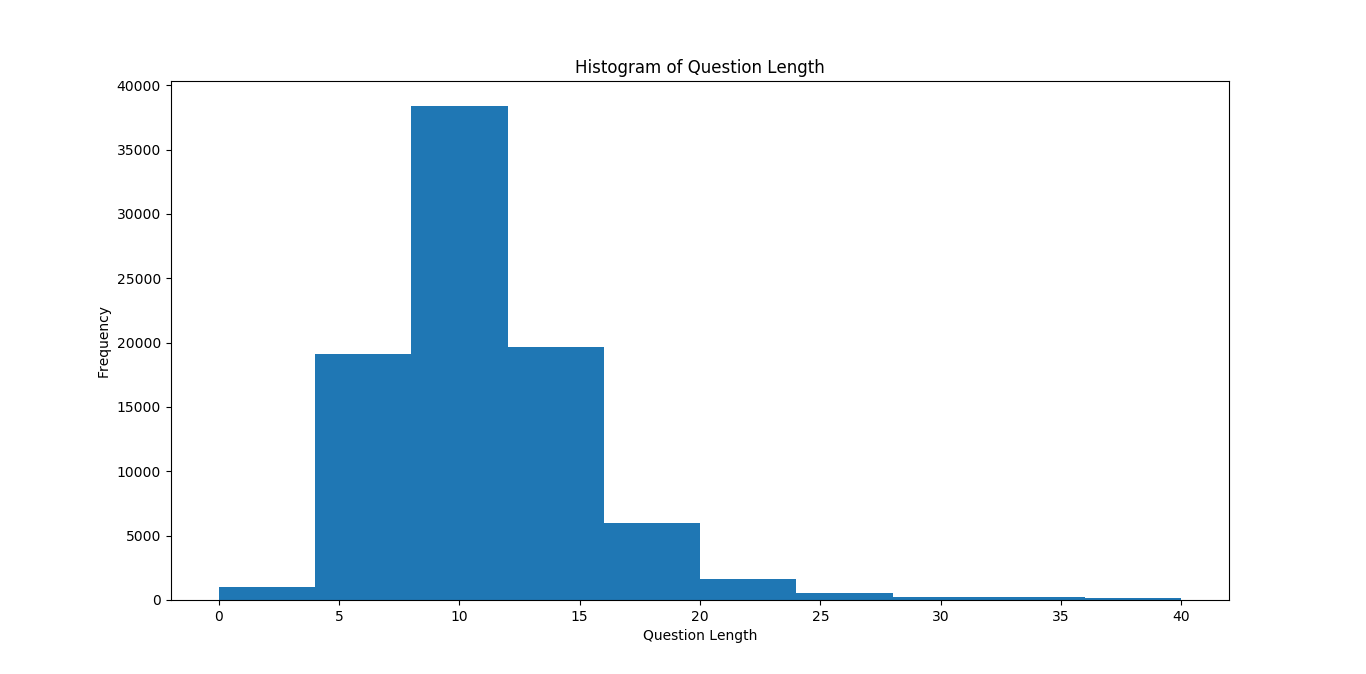
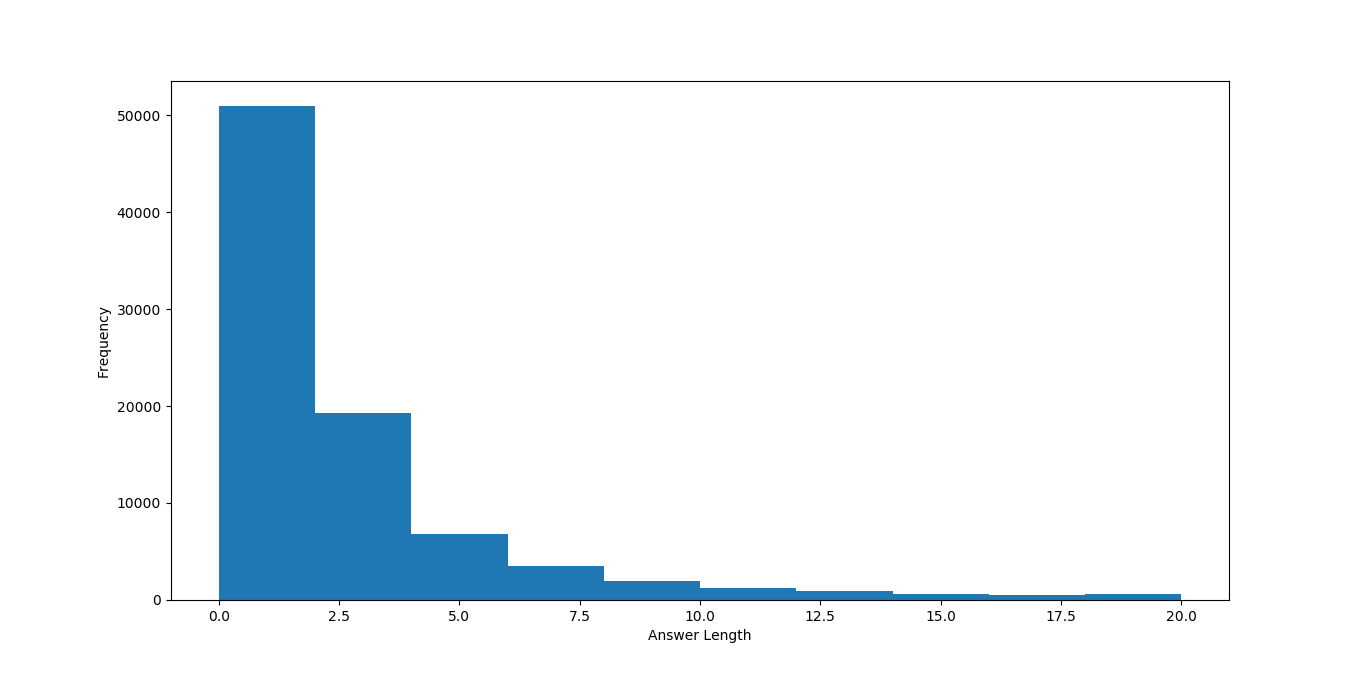
final changes SQuAD Analysis

diff --git a/src/SQuAD_analysis.py b/src/SQuAD_analysis.py
@@ -1,0 +1,66 @@
+read_data = open("temp.txt")
+
+import numpy as np
+val = []
+flag = 0
+sum=0
+for txt in read_data:
+	if txt.find("?") == -1:
+		sum = sum + len(txt.split())
+	else:
+		val.append(sum)
+		sum=0
+
+np_val = np.array(val)
+print(np_val)
+import matplotlib.pyplot as plt
+plt.hist(np_val,range=[0,500])
+plt.title("Histogram of Paragraph Length")
+plt.xlabel("Paragraph Length")
+plt.ylabel("Frequency")
+plt.show()
+
+import numpy as np
+val = []
+max_val = 0
+loc = []
+tot = 0
+for txt in read_data:
+	tot = tot+1
+	if txt.find("?") >= 0:
+		st = txt.index("?")
+		ed = len(txt)-1
+		if (ed-st) <= 200:
+			temp = txt[0:(st-2)].count(" ")
+			val.append(temp+1)
+			
+np_val = np.array(val)
+import matplotlib.pyplot as plt
+plt.hist(np_val,range=[0,40])
+plt.title("Histogram of Question Length")
+plt.xlabel("Question Length")
+plt.ylabel("Frequency")
+plt.show()
+
+import numpy as np
+val = []
+quest = []
+max_val = 0
+loc = []
+tot = 0
+for txt in read_data:
+	tot = tot+1
+	if txt.find("?") >= 0:
+		st = txt.index("?") + 2
+		ed = len(txt)-1
+		if (ed-st) <= 200:
+			temp = txt[st:ed].count(" ")
+			val.append(temp)
+
+np_val = np.array(val)
+import matplotlib.pyplot as plt
+plt.hist(np_val,range=[0,20])
+plt.title("Histogram of Answer Length")
+plt.xlabel("Answer Length")
+plt.ylabel("Frequency")
+plt.show()
